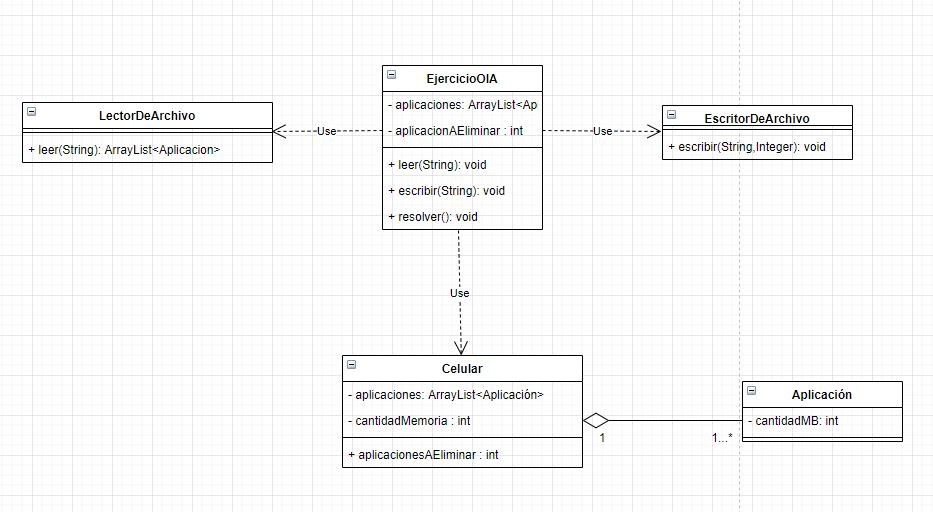
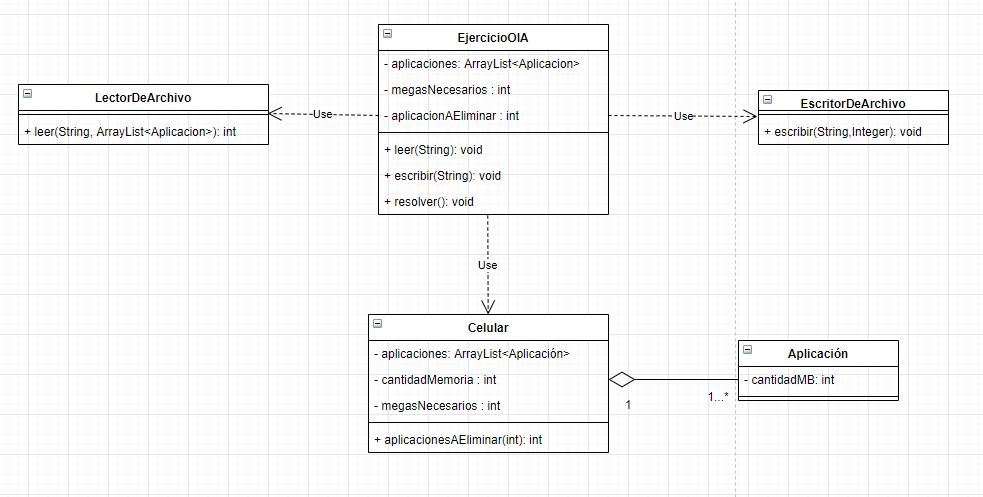
modificacion documentacion

diff --git a/src/unlam/progava/oia/LectorDeArchivos.java b/src/unlam/progava/oia/LectorDeArchivos.java
@@ -8,7 +8,7 @@ import java.util.Scanner;
 
 public class LectorDeArchivos {
 	
-	public static ArrayList<Aplicacion> leer(String path) {
+	public static int leer(String path) {
 		ArrayList<Aplicacion> aplicaciones = new ArrayList<Aplicacion>();
 		
 		File file = new File(path);
@@ -18,6 +18,7 @@ public class LectorDeArchivos {
 			scanner.useLocale(Locale.ENGLISH);
 
 			int cant = scanner.nextInt();
+			int megasNecesarios = scanner.nextInt();
 			for (int i = 0; i < cant; i++) {
 				aplicaciones.add(new Aplicacion(scanner.nextInt()));
 			}
@@ -25,6 +26,6 @@ public class LectorDeArchivos {
 			e.printStackTrace();
 		}
 		
-		return sumadora;
+		return megasNecesarios;
 	}
 }

diff --git a/src/unlam/progava/oia/EjercicioOIA.java b/src/unlam/progava/oia/EjercicioOIA.java
@@ -4,7 +4,8 @@ import java.util.ArrayList;
 
 public class EjercicioOIA {
 	
-	ArrayList<Integer> sumadora = new ArrayList<Integer>();
+	ArrayList<Integer> aplicaciones = new ArrayList<Integer>();
+	int megasNecesarios;
 	int resultado;
 
 	public static void main(String[] args) {
@@ -21,7 +22,7 @@ public class EjercicioOIA {
 	 */
 	public void leer(String path) {
 		
-		sumadora = LectorDeArchivos.leer(path);
+		megasNecesarios = LectorDeArchivos.leer(path,aplicaciones);
 		//throw new RuntimeException("implementame");
 		
 	}
